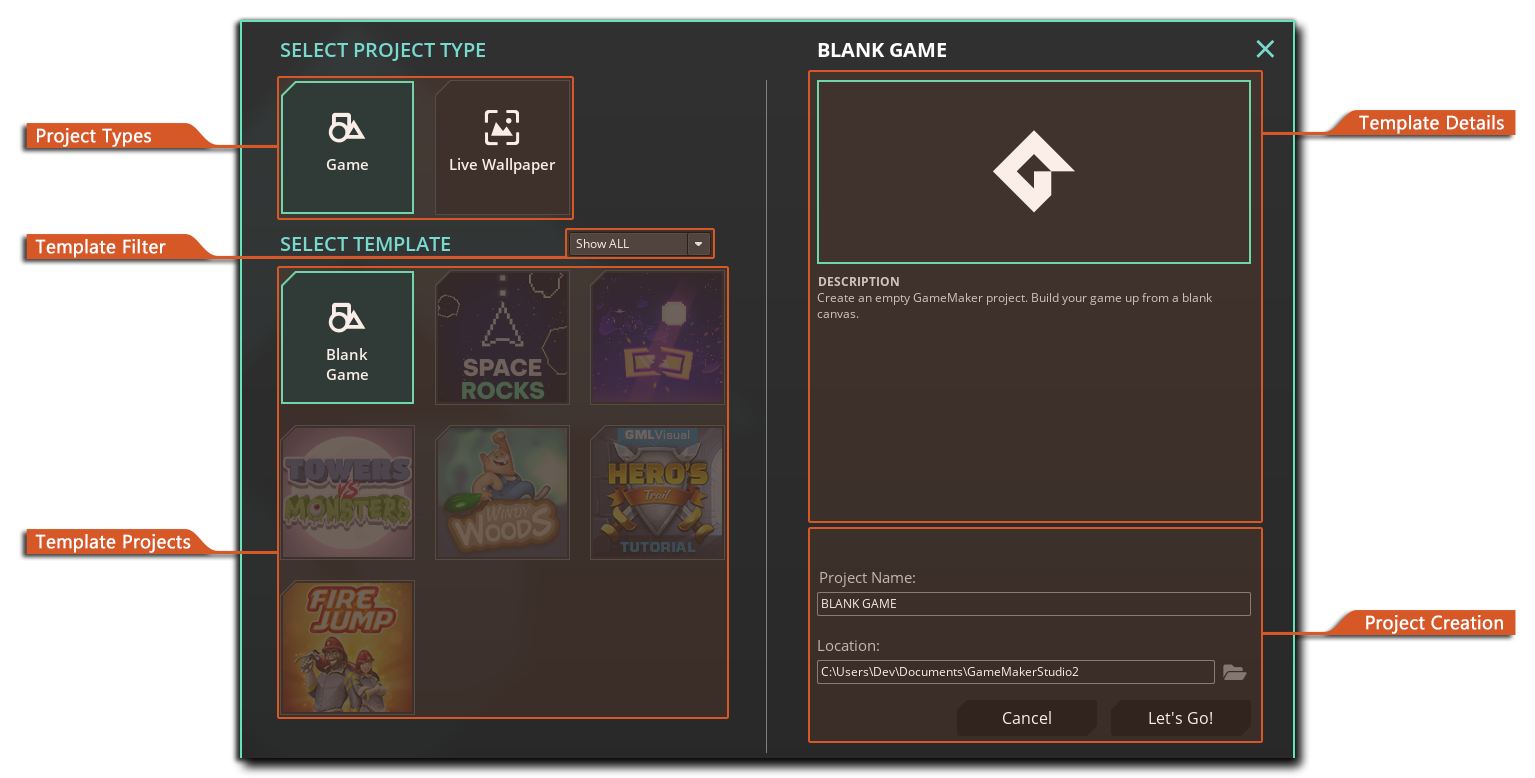
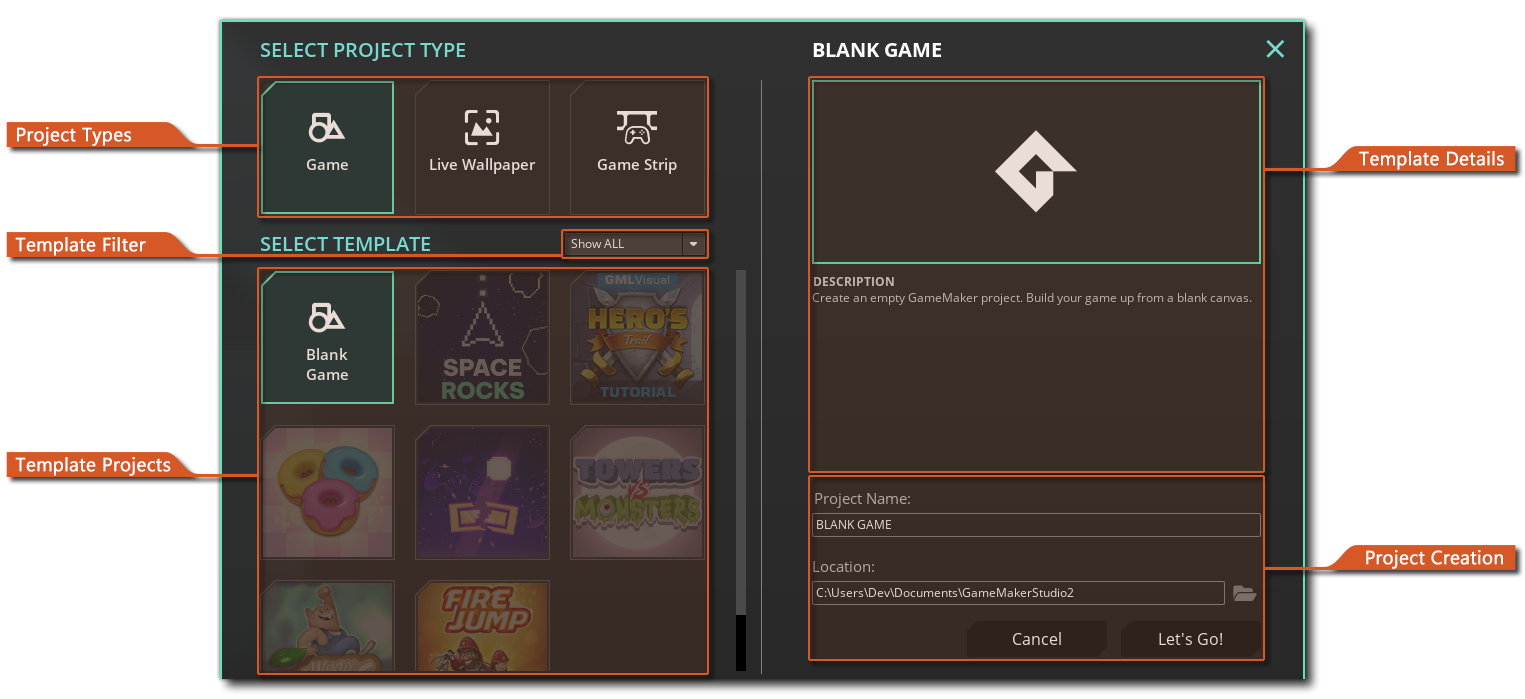
[Feature]GX.games Integration: Add support for uploading Game Strip packages YoYoGames/GameMaker-Feature-Requests#1082 * Updated screenshot on The Start Page page & slightly rewrote paragraph

Changed region(s): [[0.0, 0.0, 1.0, 1.0], [0.6472, 0.1502, 0.7089, 0.3004]]

diff --git a/Manual/contents/Introduction/The_Start_Page.htm b/Manual/contents/Introduction/The_Start_Page.htm
@@ -48,11 +48,11 @@
   <h1 id="newproj">Starting A New Project</h1>
   <p>You can click the <strong>New </strong>button to create a new project, the <strong>Open </strong>button to open an existing project or the <strong>Import </strong>button to open a compressed <span class="inline"> <span class="inlinecode">YYZ</span></span> <span data-keyref="GameMaker Name">GameMaker</span> project file or a legacy <a class="glossterm" data-glossterm="GameMaker: Studio 1.4" href="#">GameMaker: Studio 1.4</a> <span class="inline"> <span class="inlinecode">GMX</span></span> project file. Both Open and Import will open the file explorer for you to browse to the project file you require.</p>
   <p class="note"><span data-conref="../assets/snippets/Tag_note.hts"> </span> <span data-keyref="GameMaker Name">GameMaker</span> is not completely backwards compatible with GameMaker: Studio 1.4 projects but imported 1.4 projects should still run, as obsolete functionality has been recreated for you automatically using <strong>compatibility scripts</strong>. For full details of the possible issues and the changes made to GML, please see the Help Center article <a href="https://help.yoyogames.com/hc/en-us/articles/231719468-Porting-A-GMS-1-4-Game-To-GameMaker-Studio-2">Porting A GMS 1.4 Project To <span data-keyref="GameMaker Name">GameMaker</span></a>, as well as the section of the manual on <a data-xref="{title}" href="../Additional_Information/Obsolete_Functions.htm">Obsolete Functions</a>.</p>
-  <p>To create a new project simply click the button labelled <strong>New</strong>, which will open the Template menu:</p>
+  <p>To create a new project simply click the button labelled <strong>New</strong>, which will open the Project Type and Template menu:</p>
   <p><img alt="New Project Buttons" class="center" src="../assets/Images/Introduction/QS_NewProject.png" /></p>
-  <p>First select a project type, in most cases you would select &quot;Game&quot;. This allows you to select &quot;Blank Game&quot; to start a project from scratch.</p>
+  <p>First select a project type, in most cases you would select <strong>Game</strong>. This allows you to select <strong>Blank Game</strong> to start a project from scratch.</p>
   <p>After selecting a template, choose a name and save location for your project. If you selected a non-blank template, you may need to choose between <a href="../GameMaker_Language.htm">GML Code</a> and <a href="../GameMaker_Language.htm">GML Visual</a> versions.</p>
-  <p>Finally, click on <strong>&quot;Let&#39;s Go!&quot;</strong> to enter your new project.</p>
+  <p>Finally, click on <strong>Let&#39;s Go!</strong> to enter your new project.</p>
   <p class="note"><span data-conref="../assets/snippets/Tag_tip.hts"> </span> You can create your own template by opening a project, and <a href="../IDE_Navigation/Menus/The_File_Menu.htm#exportproject">exporting as a template</a>.</p>
   <p> </p>
   <p> </p>
